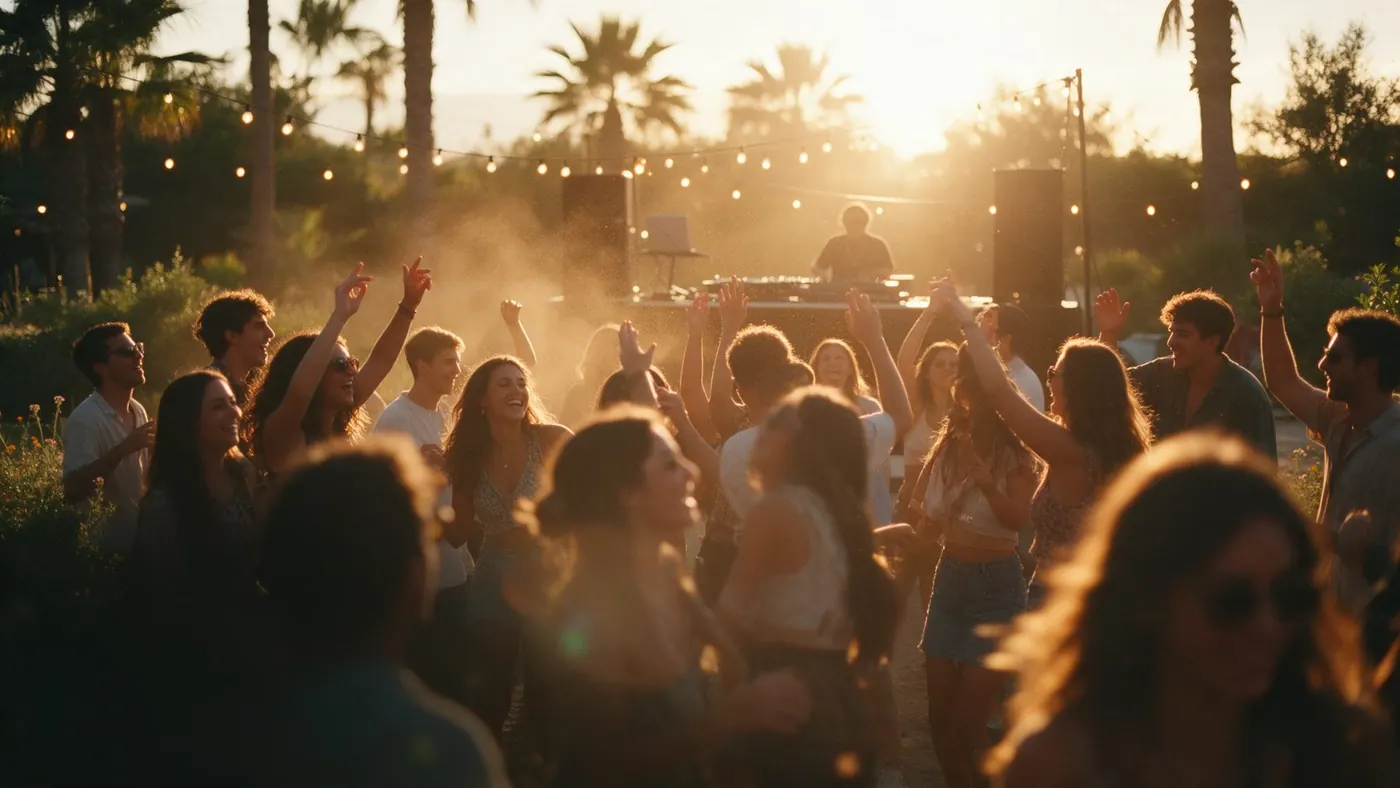
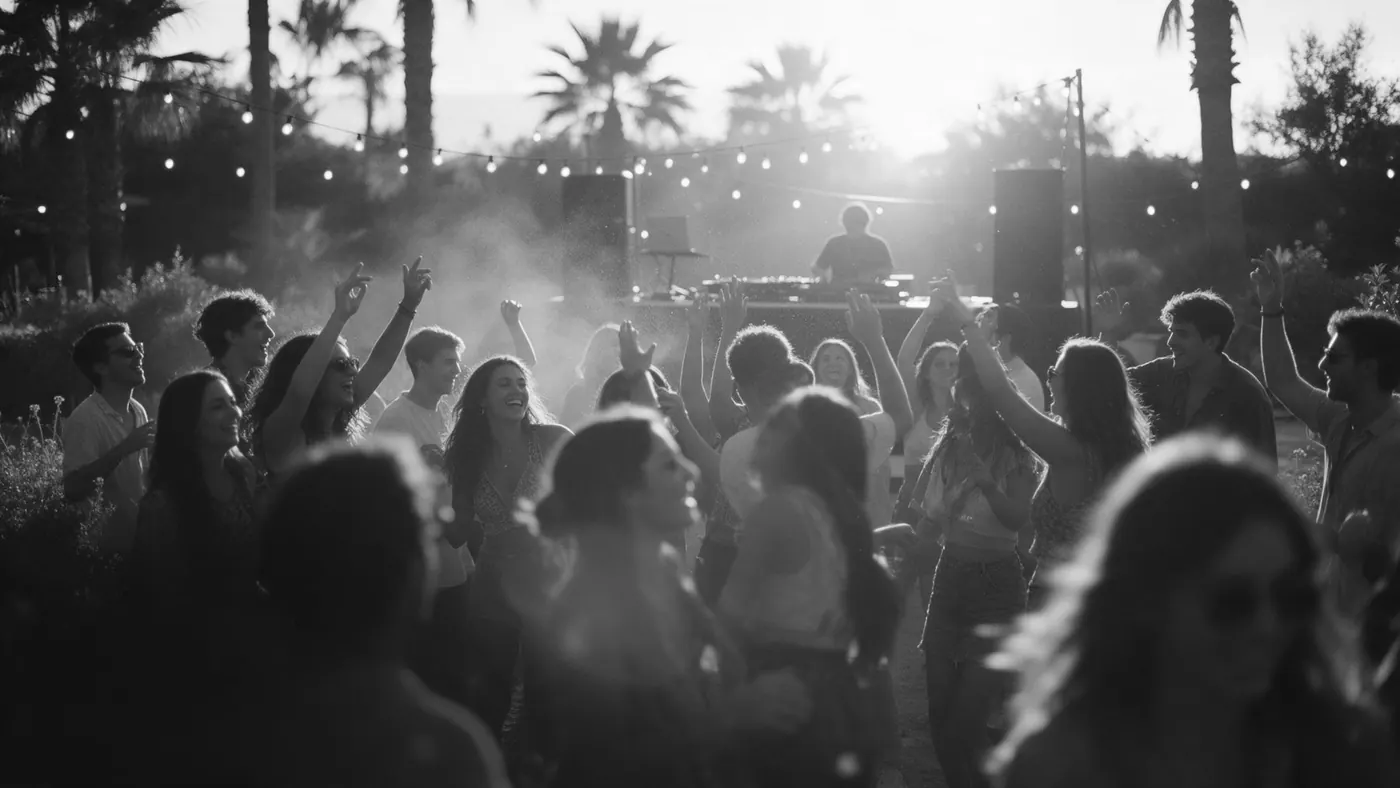
Blanco y negro con micro detalles en verde; grano en movimiento
- fotos y manifiesto de vuelta a blanco y negro; botones blancos
- verde solo en: tachados, hebilla del cartel, hover de botones y links, foco, seccion activa
- grano animado a saltos (transform, sin repintar); quieto con movimiento reducido

Claude-Session: https://claude.ai/code/session_01P2h99tPLDoZ373xhip9JjQ

diff --git a/index.html b/index.html
@@ -39,10 +39,10 @@
 <style>
 /* EIROSTUDIO · una sola hoja de estilos. Orden: tokens, base, componentes (pill, barra), secciones en orden de aparición, responsive, acceso con clave. */
 :root{
-  /* color · negro, blanco y verde (el verde del favicon y del perfil de Instagram) */
-  --accent:#00EB5B;     /* botón principal, foco, palabras destacadas, tachados */
+  /* color · blanco y negro; el verde de marca (favicon, Instagram) solo en micro detalles */
+  --accent:#F2F2F2;     /* botón principal */
   --on-accent:#131313;
-  --hl:#00EB5B;         /* texto destacado sobre negro (11:1) */
+  --hl:#00EB5B;         /* micro detalles: tachados, hebilla, foco, hover, sección activa */
   --paper:#131313;
   --ink:#ECECEC;
   --black:#131313;
@@ -93,7 +93,7 @@
 html{scroll-behavior:smooth;-webkit-text-size-adjust:100%}
 body{margin:0;background:var(--paper);color:var(--ink);font-family:var(--sans);font-size:var(--fs-body);line-height:var(--lh-body);-webkit-font-smoothing:antialiased;-webkit-tap-highlight-color:transparent;overflow-x:hidden}
 a{color:inherit}
-img{max-width:100%;display:block}
+img{max-width:100%;display:block;filter:grayscale(1)}
 picture{display:block}
 h1,h2,h3{margin:0;font-weight:600;letter-spacing:var(--tr-head);line-height:var(--lh-head);text-wrap:balance}
 p{margin:0;text-wrap:pretty}
@@ -103,7 +103,7 @@ p{margin:0;text-wrap:pretty}
 .wrap{max-width:var(--container);margin:0 auto;padding-left:max(var(--gutter),env(safe-area-inset-left,0px));padding-right:max(var(--gutter),env(safe-area-inset-right,0px))}
 [id]{scroll-margin-top:calc(var(--nav-h) + 12px)}
 main:focus{outline:none}
-a:focus-visible,button:focus-visible{outline:3px solid var(--accent);outline-offset:3px}
+a:focus-visible,button:focus-visible{outline:3px solid var(--hl);outline-offset:3px}
 .skip{position:absolute;left:var(--s-3);top:-60px;z-index:20;background:var(--ink);color:var(--black);padding:10px var(--s-4);border-radius:var(--radius-pill);font-weight:600;text-decoration:none}
 .skip:focus{top:var(--s-3)}
 .sr{position:absolute!important;width:1px;height:1px;overflow:hidden;clip:rect(0 0 0 0);white-space:nowrap}
@@ -119,11 +119,12 @@ a:focus-visible,button:focus-visible{outline:3px solid var(--accent);outline-off
 /* pill */
 .pill{display:inline-flex;align-items:center;justify-content:center;gap:var(--s-2);min-height:44px;border-radius:var(--radius-pill);padding:0 22px;font:600 var(--fs-ui)/1 var(--sans);text-decoration:none;border:0;cursor:pointer;white-space:nowrap;transition:transform var(--dur-1) var(--ease-out),background-color var(--dur-1) var(--ease-out),color var(--dur-1) var(--ease-out)}
 .pill.primary{background:var(--accent);color:var(--on-accent)}
-@media (hover:hover){.pill:hover{transform:translateY(-1px)}}
+@media (hover:hover){.pill:hover{transform:translateY(-1px)}.pill.primary:hover{background:var(--hl);color:#131313}}
 .pill:active{transform:translateY(0) scale(.97)}
 
 /* barra superior */
-body::after{content:"";position:fixed;inset:0;z-index:300;pointer-events:none;background:url(img/grain.png);opacity:.06} /* grano de película sobre toda la web */
+body::after{content:"";position:fixed;inset:-50%;z-index:300;pointer-events:none;background:url(img/grain.png);opacity:.06;animation:grain .9s steps(6) infinite;will-change:transform} /* grano de película, en movimiento como en un proyector */
+@keyframes grain{0%{transform:translate(0,0)}17%{transform:translate(-7%,4%)}33%{transform:translate(5%,-6%)}50%{transform:translate(-3%,8%)}67%{transform:translate(8%,2%)}83%{transform:translate(-6%,-5%)}100%{transform:translate(2%,6%)}}
 body::before{content:"";position:fixed;inset:0 0 auto;height:env(safe-area-inset-top,0px);z-index:10;background:var(--paper)}
 header{position:sticky;top:env(safe-area-inset-top,0px);z-index:9;background:rgba(19,19,19,.92);background:color-mix(in srgb,var(--paper) 92%,transparent);-webkit-backdrop-filter:blur(12px);backdrop-filter:blur(12px);transition:box-shadow var(--dur-2) var(--ease-out)}
 header.scrolled{box-shadow:0 1px 0 var(--line)}
@@ -134,12 +135,12 @@ header.scrolled{box-shadow:0 1px 0 var(--line)}
 .nav-links{display:flex;align-items:center;gap:6px}
 .nav-links a:not(.pill){display:flex;align-items:center;min-height:44px;padding:0 14px;border-radius:var(--radius-pill);text-decoration:none;font-weight:600;font-size:var(--fs-ui);transition:background-color var(--dur-1) var(--ease-out)}
 @media (hover:hover){.nav-links a:not(.pill):hover{background:var(--fog)}}
-.nav-links a[aria-current="true"]:not(.pill){background:var(--fog)}
+.nav-links a[aria-current="true"]:not(.pill){color:var(--hl)}
 
 /* portada */
 .hero{padding-block:clamp(40px,8vw,110px) clamp(40px,6vw,80px)}
 .hero h1{font-size:var(--fs-display);line-height:var(--lh-tight);letter-spacing:var(--tr-display);max-width:12ch}
-.hero h1 em{font-style:normal;color:var(--hl)}
+.hero h1 em{font-style:normal}
 .rot{display:inline-block;overflow:hidden;vertical-align:bottom;padding-bottom:.1em;margin-bottom:-.1em}
 .rot em{display:inline-block}
 .rot em.out{animation:rotOut var(--dur-2) var(--ease-in) forwards}
@@ -153,12 +154,10 @@ header.scrolled{box-shadow:0 1px 0 var(--line)}
 .hero-foot .lead{max-width:32ch;text-wrap:balance}
 
 /* tonos de sección: invierten los tokens y los componentes se adaptan solos */
-.tone-green{--paper:#00EB5B;--ink:#131313;--mute:#123B22;--soft:#1E4F31;--line:rgba(19,19,19,.22);--hl:var(--ink);--accent:#131313;--on-accent:#00EB5B;background:var(--paper);color:var(--ink);color-scheme:light}
-.tone-light{--paper:#F2F2F2;--ink:#131313;--mute:#4A4A4A;--soft:#5C5C5C;--line:rgba(19,19,19,.16);--fog:#E2E2E2;--surface:#E6E6E6;--accent:#131313;--on-accent:#F2F2F2;background:var(--paper);color:var(--ink);color-scheme:light}
+.tone-light{--hl:#0A7A3A;--paper:#F2F2F2;--ink:#131313;--mute:#4A4A4A;--soft:#5C5C5C;--line:rgba(19,19,19,.16);--fog:#E2E2E2;--surface:#E6E6E6;--accent:#131313;--on-accent:#F2F2F2;background:var(--paper);color:var(--ink);color-scheme:light}
 
 /* marcas: destacamos lo que importa (verde), tachamos lo que sobra (línea verde que se dibuja) */
-.hl{color:var(--hl)}
-.mark-s{color:var(--soft);background-image:linear-gradient(var(--accent),var(--accent));background-repeat:no-repeat;background-position:0 .74em;background-size:100% .06em;transition:background-size var(--dur-draw) var(--ease-out) .2s}
+.mark-s{color:var(--soft);background-image:linear-gradient(var(--hl),var(--hl));background-repeat:no-repeat;background-position:0 .74em;background-size:100% .06em;transition:background-size var(--dur-draw) var(--ease-out) .2s}
 .js [data-reveal]:not(.is-in) .mark-s{background-size:0 .06em}
 
 /* fotos: el telón sube al entrar en pantalla */
@@ -175,7 +174,7 @@ figure[data-reveal] img{transition:clip-path var(--dur-draw) var(--ease-out),tra
 .ticker{background:var(--paper);border-block:1px solid var(--line);overflow:hidden;padding-block:clamp(16px,1.8vw,22px)}
 .ticker-track{display:flex;gap:clamp(40px,5vw,72px);width:max-content;animation:tick 45s linear infinite;padding-right:clamp(40px,5vw,72px);will-change:transform}
 .sign{display:flex;align-items:center;gap:var(--s-4)}
-.sign .belt{flex:none;display:block;color:var(--accent);width:clamp(56px,5vw,72px);line-height:0}
+.sign .belt{flex:none;display:block;color:var(--hl);width:clamp(56px,5vw,72px);line-height:0}
 .belt svg{width:100%;height:auto;display:block}
 .sign span{font-size:var(--fs-lead);font-weight:600;letter-spacing:var(--tr-snug);white-space:nowrap;color:var(--mute)}
 @media (hover:hover){.ticker:hover .ticker-track{animation-play-state:paused}} /* en táctil no: un toque lo dejaría congelado */
@@ -296,7 +295,7 @@ footer{background:var(--paper);color:var(--ink);padding-block:var(--s-block) cal
 @keyframes shake{25%{transform:translateX(-6px)}75%{transform:translateX(6px)}}
 html.locked,html.locked body{overflow:hidden}
 @media (max-width:350px){.brand{font-size:15px}.nav-links a:not(.pill){padding:0 6px}}
-@media (prefers-reduced-motion:reduce){*{animation:none!important;transition:none!important;scroll-behavior:auto!important}}
+@media (prefers-reduced-motion:reduce){*,*::before,*::after{animation:none!important;transition:none!important;scroll-behavior:auto!important}}
 </style>
 </head>
 <body>
@@ -337,11 +336,11 @@ html.locked,html.locked body{overflow:hidden}
     </div>
   </section>
 
-  <!-- manifiesto: la tesis, en verde -->
-  <section class="tone-green manifesto" aria-labelledby="t-manifiesto">
+  <!-- manifiesto: la tesis, en claro -->
+  <section class="tone-light manifesto" aria-labelledby="t-manifiesto">
     <div class="wrap">
       <span class="eyebrow sec-head" data-reveal>Manifiesto</span>
-      <h2 id="t-manifiesto" data-reveal>La creatividad sin estrategia es <span class="hl">decoración.</span></h2>
+      <h2 id="t-manifiesto" data-reveal>La creatividad sin estrategia es decoración.</h2>
       <div class="manifesto-foot">
         <p class="lead">Puede ser linda, brillante y mega presentable, y no servir para nada. Por eso primero entendemos y después diseñamos.</p>
       </div>
@@ -401,7 +400,7 @@ html.locked,html.locked body{overflow:hidden}
   <!-- qué hacemos -->
   <section class="wrap sec-end" id="servicios" aria-labelledby="t-servicios">
     <span class="eyebrow sec-head" data-reveal>Qué hacemos</span>
-    <h2 class="services-title" id="t-servicios" data-reveal><span>Destacamos <span class="hl">lo que importa</span>.</span> <span>Tachamos <span class="mark-s">lo que sobra</span>.</span></h2>
+    <h2 class="services-title" id="t-servicios" data-reveal><span>Destacamos lo que importa.</span> <span>Tachamos <span class="mark-s">lo que sobra</span>.</span></h2>
     <div class="services">
       <article class="service">
         <span class="work-n">01</span>
